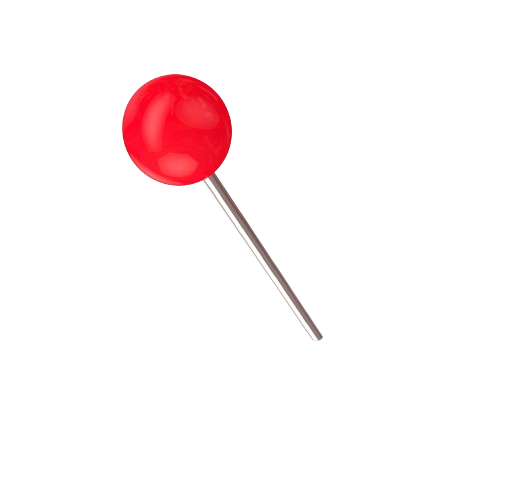
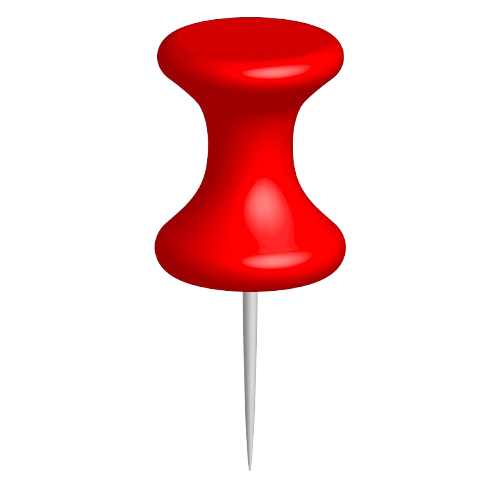
first commit

Changed region(s): [[0.21, 0.031, 0.69, 0.9298]]

diff --git a/components/pages/Home/Info.jsx b/components/pages/Home/Info.jsx
@@ -1,0 +1,119 @@
+"use client";
+
+import { useEffect } from "react";
+import gsap from "gsap";
+import Image from "next/image";
+import { ScrollTrigger } from "gsap/ScrollTrigger";
+
+export const Info = () => {
+  useEffect(() => {
+    gsap.registerPlugin(ScrollTrigger);
+
+    gsap.fromTo(
+      ".info-text",
+      { x: -100, opacity: 0 },
+      {
+        x: 0,
+        opacity: 1,
+        duration: 1.2,
+        ease: "power3.out",
+        scrollTrigger: {
+          trigger: ".info-section",
+          start: "top 80%", // يبدأ عند ظهور 80٪ من القسم في الشاشة
+          toggleActions: "play none none reverse",
+        },
+      }
+    );
+
+    gsap.fromTo(
+      ".info-images",
+      { x: 100, opacity: 0 },
+      {
+        x: 0,
+        opacity: 1,
+        duration: 1.2,
+        ease: "power3.out",
+        delay: 0.3,
+        scrollTrigger: {
+          trigger: ".info-section",
+          start: "top 80%",
+          toggleActions: "play none none reverse",
+        },
+      }
+    );
+  }, []);
+
+  return (
+    <div className="container mx-auto mb-44">
+      <section className="relative  grid grid-cols-1 md:grid-cols-2 items-center gap-10 py-16 px-6 md:px-16 bg-white mb-24">
+        {/* خلفية نص */}
+        <div className="absolute bottom-[-150px] inset-x-0 text-center select-none pointer-events-none">
+          <h2 className="text-[50px] md:text-[160px] font-extrabold text-black/5 uppercase">
+            AG<span className="text-red-600">Takaful</span>
+          </h2>
+        </div>
+
+        {/* النصوص */}
+        <div className="info-text relative z-20 space-y-6 text-right">
+          <p className="text-red-600 font-semibold text-lg">مرحباً بك</p>
+          <h3 className="text-4xl md:text-5xl font-bold leading-snug text-black">
+            <span className="text-transparent bg-clip-text bg-gradient-to-r from-black to-red-700">
+              موقع العروض
+            </span>{" "}
+            — وجهتك الأولى لعروض وخصومات حقيقية
+          </h3>
+          <p className="text-lg text-gray-700 leading-relaxed">
+            نحن في <span className="font-semibold text-black">موقع العروض</span>{" "}
+            نوفّر لك أحدث الخصومات والعروض من أشهر المتاجر والعلامات التجارية
+            حول العالم، في مكان واحد.
+          </p>
+          <p className="text-lg text-gray-700">
+            تابع يومياً أفضل التخفيضات على الإلكترونيات، الأزياء، السفر والمزيد
+            — لتوفّر وقتك ومالك بسهولة.
+          </p>
+          {/* <a
+              href="#"
+              className="inline-block px-8 py-3 border-2 border-red-600 text-red-600 font-semibold rounded-full hover:bg-red-600 hover:text-white transition-all duration-300"
+            >
+              اكتشف العروض الآن
+            </a> */}
+        </div>
+
+        {/* الصور */}
+        <div className="info-images relative z-20 flex justify-center md:justify-end">
+          <div className="relative w-full max-w-md">
+            <div className="relative w-2/3 border-4 border-white shadow-lg z-10 rounded-2xl overflow-hidden">
+              <Image
+                src="/landing/info-1.jpg"
+                alt="صورة رئيسية"
+                width={500}
+                height={400}
+                className="object-cover"
+              />
+            </div>
+
+            <div className="absolute top-40 left-10 w-2/3 border-4 border-white shadow-lg z-20 rounded-2xl overflow-hidden">
+              <Image
+                src="/landing/info-1.jpg"
+                alt="صورة ثانية"
+                width={500}
+                height={400}
+                className="object-cover"
+              />
+            </div>
+
+            <div className="absolute -top-8 -left-4 w-1/2 border-4 border-white shadow-lg z-0 rounded-2xl overflow-hidden">
+              <Image
+                src="/landing/info-1.jpg"
+                alt="صورة ثالثة"
+                width={500}
+                height={400}
+                className="object-cover"
+              />
+            </div>
+          </div>
+        </div>
+      </section>
+    </div>
+  );
+};

diff --git a/components/pages/Home/SliderLanding.jsx b/components/pages/Home/SliderLanding.jsx
@@ -11,19 +11,19 @@ const sliders = [
     img: "/landing/sliders/slider-1.jpg",
     title: "خصم 50% على الإلكترونيات",
     subtitle: "احصل على كوبون خصم من متجر الإلكترونيات الآن",
-    link: "احصل على الكوبون",
+    // link: "احصل على الكوبون",
   },
   {
     img: "/landing/sliders/slider-2.jpg",
     title: "عروض الموضة الصيفية",
     subtitle: "خصومات خاصة على ملابس الصيف من أشهر الماركات",
-    link: "استفد بالعرض",
+    // link: "استفد بالعرض",
   },
   {
     img: "/landing/sliders/slider-3.jpg",
     title: "خصم حصري للموقع",
     subtitle: "استمتع بخصومات على المنتجات عند التسوق عبر موقعنا",
-    link: "اكتشف العروض",
+    // link: "اكتشف العروض",
   },
 ];
 
@@ -63,7 +63,7 @@ export default function SliderLanding() {
   return (
     <section
       ref={containerRef}
-      className="relative w-full h-[80vh] overflow-hidden bg-black"
+      className="relative w-full h-[100vh] overflow-hidden bg-black"
     >
       {sliders.map((slide, index) => (
         <div
@@ -86,12 +86,14 @@ export default function SliderLanding() {
             <h2 className="text-5xl font-bold uppercase tracking-wide slide-content">
               {slide.title}
             </h2>
-            <a
-              href="#"
-              className="mt-4 px-6 py-2 border border-white text-white hover:bg-white hover:text-black transition slide-content"
-            >
-              {slide.link}
-            </a>
+            {slide.link && (
+              <a
+                href="#"
+                className="mt-4 px-6 py-2 border border-white text-white hover:bg-white hover:text-black transition slide-content"
+              >
+                {slide.link}
+              </a>
+            )}
           </div>
         </div>
       ))}

diff --git a/app/layout.jsx b/app/layout.jsx
@@ -1,32 +1,35 @@
-import { Outfit, Cairo } from 'next/font/google';
-import './globals.css';
+import { Outfit, Cairo } from "next/font/google";
+import "./globals.css";
 
-import { Toaster } from 'sonner';
+import { Toaster } from "sonner";
 // import ProtectedRoute from '../middleware/ProtectedRoute';
-import QueryProvider from '../components/QueryProvider';
-import AppHeader from '../layout/AppHeader';
-import AppFooter from '../layout/AppFooter';
+import QueryProvider from "../components/QueryProvider";
+import AppHeader from "../layout/AppHeader";
+import AppFooter from "../layout/AppFooter";
+import SmoothScroll from "@/components/animation/SmoothScroll";
 
 const outfit = Outfit({
-  subsets: ['latin'],
+  subsets: ["latin"],
 });
 
 const cairo = Cairo({
-  subsets: ['arabic'],
-  weight: ['300', '400', '500', '600', '700'], // حسب ما تحتاج
+  subsets: ["arabic"],
+  weight: ["300", "400", "500", "600", "700"], // حسب ما تحتاج
 });
 
 export default function RootLayout({ children }) {
   return (
-    <html lang="ar" dir='rtl'>
+    <html lang="ar" dir="rtl">
       <body className={`${outfit.className} ${cairo.className} `}>
         {/* <ProtectedRoute> */}
-            <QueryProvider>
-                <Toaster position="top-right" richColors />
-                <AppHeader/>
-                {children}
-                <AppFooter/>
-            </QueryProvider>
+        <QueryProvider>
+          <Toaster position="top-right" richColors />
+          <SmoothScroll>
+            <AppHeader />
+            {children}
+            <AppFooter />
+          </SmoothScroll>
+        </QueryProvider>
         {/* </ProtectedRoute> */}
       </body>
     </html>

diff --git a/components/pages/Home/Contact.jsx b/components/pages/Home/Contact.jsx
@@ -4,12 +4,14 @@ import React, { useEffect, useRef } from "react";
 import { FiHome, FiMail, FiPhoneCall } from "react-icons/fi";
 import { ScrollTrigger } from "gsap/ScrollTrigger";
 
- const Contact = () => {
+gsap.registerPlugin(ScrollTrigger);
+const Contact = () => {
   const cardsRef = useRef([]);
   const formRef = useRef(null);
   useEffect(() => {
     // Animation for info cards
     cardsRef.current.forEach((el, idx) => {
+      if (!el) return;
       gsap.from(el, {
         y: 50,
         opacity: 0,
@@ -26,7 +28,7 @@ import { ScrollTrigger } from "gsap/ScrollTrigger";
     // Animation for form
     if (formRef.current) {
       gsap.from(formRef.current, {
-        x: -100, // يبدأ من اليسار
+        x: -100,
         opacity: 0,
         duration: 1,
         ease: "power3.out",
@@ -95,12 +97,9 @@ import { ScrollTrigger } from "gsap/ScrollTrigger";
           </div>
 
           {/* نموذج الاتصال */}
-          <div   ref={formRef}  className="w-full  px-4 lg:w-1/2 xl:w-5/12">
-            <div
-            
-              className="relative rounded-lg bg-white p-8 shadow-lg z-auto sm:p-12 z-20"
-            >
-              <form >
+          <div ref={formRef} className="w-full  px-4 lg:w-1/2 xl:w-5/12">
+            <div className="relative rounded-lg bg-white p-8 shadow-lg z-auto sm:p-12 z-20">
+              <form>
                 <div className="mb-6">
                   <input
                     type="text"
@@ -953,4 +952,4 @@ import { ScrollTrigger } from "gsap/ScrollTrigger";
     </section>
   );
 };
-export default Contact
+export default Contact;

diff --git a/layout/AppHeader.jsx b/layout/AppHeader.jsx
@@ -85,7 +85,7 @@ const AppHeader = () => {
 
         {/* قائمة سطح المكتب */}
         <nav className="hidden md:flex">
-          <ul className="flex items-center gap-8 font-medium transition-colors duration-500">
+          <ul className="flex items-center gap-8 font-medium text-xl transition-colors duration-500">
             {navLinks.map((link, index) => (
               <li
                 key={index}
@@ -119,10 +119,10 @@ const AppHeader = () => {
           {navLinks.map((link, index) => (
             <li
               key={index}
-              className="hover:text-[var(--color-primary)] transition-colors cursor-pointer"
+              className="hover:text-[var(--color-primary)]  transition-colors cursor-pointer"
               onClick={() => setMobileOpen(false)}
             >
-              <Link href={link.href}>{link.name}</Link>
+              <Link className="text-black" href={link.href}>{link.name}</Link>
             </li>
           ))}
         </ul>

diff --git a/components/animation/SmoothScroll.jsx b/components/animation/SmoothScroll.jsx
@@ -1,0 +1,26 @@
+"use client";
+
+import { useEffect } from "react";
+import gsap from "gsap";
+import { ScrollSmoother } from "gsap/ScrollSmoother";
+
+export default function SmoothScroll({ children }) {
+  useEffect(() => {
+    if (typeof window === "undefined") return;
+    gsap.registerPlugin(ScrollSmoother);
+
+    if (!ScrollSmoother.get()) {
+      ScrollSmoother.create({
+        smooth: 1.2, 
+        effects: true,
+        smoothTouch: 0.1,
+      });
+    }
+  }, []);
+
+  return (
+    <div id="smooth-wrapper">
+      <div id="smooth-content">{children}</div>
+    </div>
+  );
+}

diff --git a/app/page.jsx b/app/page.jsx
@@ -4,6 +4,7 @@ import SliderLanding from "@/components/pages/Home/SliderLanding";
 import LogoSection from "@/components/pages/Home/LogoSection";
 import Contact from "@/components/pages/Home/Contact";
 import dynamic from "next/dynamic";
+import { Info } from "@/components/pages/Home/Info";
 
 const MapHolderClient = dynamic(
   () => import("@/components/pages/Home/MapHolderClient"),
@@ -15,6 +16,7 @@ export default function Home() {
     <>
       <SliderLanding />
       <LogoSection />
+      <Info />
       <MapHolderClient />
       <Contact />
     </>
